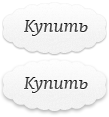
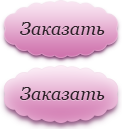
slider

diff --git a/app/assets/stylesheets/main.css b/app/assets/stylesheets/main.css
@@ -63,6 +63,11 @@ h2{
 	line-height: 1em;
 	margin-top: 20px;
 }
+h3{
+	font-size: 2.250em;
+	font-weight: normal;
+	line-height: 1.2em;
+}
 hr{
 	height: 1px;
     width: 100%;
@@ -216,7 +221,7 @@ a:hover#header__logo {
     cursor: default;
 }
 .typechooser__active span {
-    background: transparent url(../assets/main_imgs.png) no-repeat;
+    background: transparent url(../images/main_imgs.png) no-repeat;
     line-height: 14px;
     padding: 2px 2px 17px 12px;
 }
@@ -246,6 +251,7 @@ a:hover#header__logo {
 	background-color: #f2f2f2;
 	height:300px;
 	position: relative;
+	margin-bottom: 40px;
 }
 .slider-inner-container{
 	overflow: hidden;
@@ -256,9 +262,9 @@ a:hover#header__logo {
 	width: 3000px;
 }
 .slider-controller-right{
-	width: 50px;
-	height: 50px;
-	background-color: gray;
+	width: 51px;
+	height: 51px;
+	background: url(../assets/slider_arrows.png) 100% 0;
 	position: absolute;
 	top: 50%;
 	left: 100%;
@@ -266,20 +272,91 @@ a:hover#header__logo {
 	cursor: pointer;	
 }
 .slider-controller-left{
-	width: 50px;
-	height: 50px;
-	background-color: gray;
+	width: 51px;
+	height: 51px;
+		background: url(../assets/slider_arrows.png);
 	position: absolute;
 	top: 50%;
 	margin-top: -25px;
 	margin-left: -50px;
 	cursor: pointer;
 }
+.slider-viewer-center{
+	position: absolute;
+	bottom:10px;
+	left: 50%;
+	margin-left: -25px;
+	z-index: 1;
+}
+.slider-viewer-center span{
+	margin-right: 10px;
+	display: block;
+	float: left;
+	width: 10px;
+	height: 10px;
+	border-radius: 5px;
+	box-shadow: inset 0 1px 2px rgba(0,0,0,0.4);
+	background-color: #ddd;
+	-webkit-transition: all 0.5s ease;
+	-moz-transition: all 0.5s ease;
+	-o-transition: all 0.5s ease;
+	transition: all 0.5s ease;
+}
+.slider-viewer-center span.active{
+	box-shadow: none;
+	background-color: #f2b2db;
+}
+.slider-controller-left:hover, .slider-controller-right:hover{
+	opacity: 0.5;
+}
 .slide{
 	background-color: red;
 	width: 980px;
 	height: 300px;
 	float: left;
+	position: relative;
+}
+.slider .slide .slide-text{
+	padding: 50px 570px 0 90px
+}
+.slide-text .text-main{
+	margin-bottom: 8px;
+	margin-top: 10px;
+}
+.slide-text .text-about{
+	font-size: 0.875em;
+	line-height: 20px;
+	margin-bottom: 10px;
+}
+.slide-text .text-about em{
+	font-family: Arial, Helvetica, sans-serif
+}
+.slide .slide-photo-controller{
+	position: absolute;
+	bottom: 15px;
+	right: 130px;
+	text-align: center;
+	width: 200px;
+}
+.slide .slide-photo-controller a{
+	font-size: 0.813em;
+	text-decoration: none;
+	border-bottom: 1px dotted;
+	margin-left: 10px;
+}
+.separator{
+	width: 100%;
+	height: 20px;
+	background: url(../images/separator.png) no-repeat center 0;
+	text-align: center;
+	text-transform: uppercase;
+	font-size: 0.75em;
+	letter-spacing: 0.2em;
+	font-family: Arial, Helvetica, sans-serif;
+	font-weight: bold;
+	padding-top: 2px;
+	margin-bottom: 25px;
+
 }
 .blue{
 	background-color: blue;
@@ -334,6 +411,7 @@ a:hover#header__logo {
 /* Продукты */
 #products{
 	width: 100%;
+	overflow: hidden;
 }
 .product{
 	width: 180px;
@@ -550,15 +628,15 @@ fieldset.size ol li p{
 }
 a#buy_button{
 	background: url(../images/buy.png);
-	width: 109px;
-	height: 58px;
+	width: 122px;
+	height: 65px;
 	display: block;
 	margin-left: 120px;
 	margin-bottom: 20px;
 	margin-top: -5px;
 }
 a:hover#buy_button{
-	background: url(../images/buy.png) 0px 58px;
+	background: url(../images/buy.png) 0px 65px;
 }
 a:active#buy_button{
 	background: url(../images/buy.png);

diff --git a/app/assets/javascripts/slider.js b/app/assets/javascripts/slider.js
@@ -2,21 +2,67 @@ jQuery(document).ready(function() {
 	var right_controller = $('.slider-controller-right');
 	var left_controller = $('.slider-controller-left');
 	var wrapper = $('.slider-inner-wrapper');
+	var slide_flag = true;
 
 	right_controller.click(function(){
-		var pos = parseFloat(wrapper.css('margin-left'));
-		if (pos > -1800) {
-			wrapper.animate({'margin-left': '-=980px'}, 500);
-		} else {
-			wrapper.animate({'margin-left': '0'}, 500);
+		if (slide_flag) {
+			slide_flag =false;
+			var pos = parseFloat(wrapper.css('margin-left'));
+			if (pos > -1800) {
+				wrapper.animate({'margin-left': '-=980px'}, 500);
+			} else {
+				wrapper.animate({'margin-left': '0'}, 500);
+			};
+
+			var active = $(".slider-viewer-center .active");
+			if (active.next().is("span")){
+				active.removeClass("active");
+				active.next().addClass("active");
+			} else {
+				$(".slider-viewer-center span").first().addClass("active");
+				active.removeClass("active");
+			}
+
+			setTimeout(function(){
+				slide_flag=true;
+			}, 500)
 		};
 		
-
 	})
 	left_controller.click(function(){
-		var pos = parseFloat(wrapper.css('margin-left'));
-		if (pos <= -980) {
-			wrapper.animate({'margin-left': '+=980px'}, 500);
+		if (slide_flag) {
+			slide_flag =false;
+			var pos = parseFloat(wrapper.css('margin-left'));
+			if (pos <= -980) {
+				wrapper.animate({'margin-left': '+=980px'}, 500);
+			} else {
+				wrapper.animate({'margin-left': '-1960px'}, 500);
+			};
+			var active = $(".slider-viewer-center .active");
+			if (active.prev().is("span")){
+				active.removeClass("active");
+				active.prev().addClass("active");
+			} else {
+				$(".slider-viewer-center span").last().addClass("active");
+				active.removeClass("active");
+			}
+
+			setTimeout(function(){
+				slide_flag=true;
+			}, 500)
 		};
+	})
+
+	$(".slide-photo-controller a").click(function(e){
+		var slide = $(this).closest(".slide");
+		var new_name = slide.attr("data-name");
+		var new_photo = slide.attr("data-style");
+
+		slide.attr("data-name", $(this).html());
+		slide.attr("data-style", slide.attr("style"));
+
+		$(this).html(new_name);
+		slide.attr("style", new_photo);
+		return false;
 	})
 });

diff --git a/config/initializers/setup_mail.rb b/config/initializers/setup_mail.rb
@@ -2,8 +2,8 @@ ActionMailer::Base.smtp_settings = {
   :address              => "smtp.gmail.com",
   :port                 => 587,
   :domain               => "gmail.com",
-  :user_name            => "lasposacontact",
-  :password             => "matahari28021988",
+  :user_name            => "urattatta",
+  :password             => "combi1988",
   :authentication       => "plain",
   :enable_starttls_auto => true
 }

diff --git a/app/admin/dashboards.rb b/app/admin/dashboards.rb
@@ -15,7 +15,7 @@ ActiveAdmin::Dashboards.build do
   #     end
   #   end
   section "Recent Products" do
-    table_for Product.order("released_at desc").limit(5) do
+    table_for Product.order("created_at desc").limit(5) do
       column "Image" do |product|
         image_tag product.productimages.first.image.url(:thumb), :height => "50px" if product.productimages.first !=nil
       end

diff --git a/app/controllers/products_controller.rb b/app/controllers/products_controller.rb
@@ -4,6 +4,7 @@ class ProductsController < ApplicationController
     #redirect_to "/weddingdresses/all"
     @pages = Page.all
     @types = Type.has_products
+    @products = Product.order("created_at desc").limit(15).page(1);
   end
   
   def index

diff --git a/app/mailers/order_mailer.rb b/app/mailers/order_mailer.rb
@@ -1,5 +1,5 @@
 class OrderMailer < ActionMailer::Base
-  default :from => "lasposacontact@gmail.com"
+  default :from => "shlakomilo@yandex.ru"
   
   def order_complete(order, adress)
     @order = order
